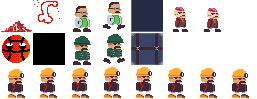
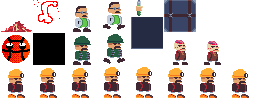
Added hand and test tube

Changed region(s): [[0.4981, 0.0, 0.8716, 0.6667], [0.7782, 0.3939, 0.8716, 0.6667]]

diff --git a/site/public/js/main.js b/site/public/js/main.js
@@ -1688,7 +1688,7 @@ eval("\r\nObject.defineProperty(exports, \"__esModule\", { value: true });\r\nex
 /***/ (function(module, exports, __webpack_require__) {
 
 "use strict";
-eval("\nObject.defineProperty(exports, \"__esModule\", { value: true });\nexports.Player = void 0;\nconst CanvasHelper_1 = __webpack_require__(/*! ../../util/CanvasHelper */ \"./site/build/client/util/CanvasHelper.js\");\nconst CharacterEntity_1 = __webpack_require__(/*! ./CharacterEntity */ \"./site/build/client/engine/entities/CharacterEntity.js\");\nclass Player extends CharacterEntity_1.CharacterEntity {\n    constructor(serviceLocator, x, y, animation, animation_width, animation_height) {\n        super(serviceLocator, x, y, animation, animation_width, animation_height);\n        // TO REMOVE: degbug zoom function\n        this.zoom = \"none\";\n        this.speed = 1;\n    }\n    update(serviceLocator) {\n        super.update(serviceLocator);\n        const camera = CanvasHelper_1.CanvasHelper.getCamera();\n        CanvasHelper_1.CanvasHelper.setCamera(this.x, this.y, camera.scale);\n        // TO REMOVE\n        if (this.zoom == \"in\") {\n            CanvasHelper_1.CanvasHelper.setCamera(this.x, this.y, camera.scale * 1.01);\n        }\n        else if (this.zoom == \"out\") {\n            CanvasHelper_1.CanvasHelper.setCamera(this.x, this.y, camera.scale * 0.99);\n        }\n    }\n    onAddedToWorld(serviceLocator) {\n    }\n    onRemovedFromWorld(serviceLocator) {\n    }\n}\nexports.Player = Player;\n//# sourceMappingURL=Player.js.map\n\n//# sourceURL=webpack:///./site/build/client/engine/entities/Player.js?");
+eval("\nObject.defineProperty(exports, \"__esModule\", { value: true });\nexports.Player = void 0;\nconst CanvasHelper_1 = __webpack_require__(/*! ../../util/CanvasHelper */ \"./site/build/client/util/CanvasHelper.js\");\nconst CharacterEntity_1 = __webpack_require__(/*! ./CharacterEntity */ \"./site/build/client/engine/entities/CharacterEntity.js\");\nclass Player extends CharacterEntity_1.CharacterEntity {\n    constructor(serviceLocator, x, y, animation, animation_width, animation_height) {\n        super(serviceLocator, x, y, animation, animation_width, animation_height, \"test_tube\");\n        // TO REMOVE: degbug zoom function\n        this.zoom = \"none\";\n        this.speed = 1;\n    }\n    update(serviceLocator) {\n        super.update(serviceLocator);\n        const camera = CanvasHelper_1.CanvasHelper.getCamera();\n        CanvasHelper_1.CanvasHelper.setCamera(this.x, this.y, camera.scale);\n        // TO REMOVE\n        if (this.zoom == \"in\") {\n            CanvasHelper_1.CanvasHelper.setCamera(this.x, this.y, camera.scale * 1.01);\n        }\n        else if (this.zoom == \"out\") {\n            CanvasHelper_1.CanvasHelper.setCamera(this.x, this.y, camera.scale * 0.99);\n        }\n    }\n    onAddedToWorld(serviceLocator) {\n    }\n    onRemovedFromWorld(serviceLocator) {\n    }\n}\nexports.Player = Player;\n//# sourceMappingURL=Player.js.map\n\n//# sourceURL=webpack:///./site/build/client/engine/entities/Player.js?");
 
 /***/ }),
 
@@ -1712,7 +1712,7 @@ eval("\nObject.defineProperty(exports, \"__esModule\", { value: true });\nexport
 /***/ (function(module, exports, __webpack_require__) {
 
 "use strict";
-eval("\nObject.defineProperty(exports, \"__esModule\", { value: true });\nexports.Zombie = void 0;\nconst CharacterEntity_1 = __webpack_require__(/*! ./CharacterEntity */ \"./site/build/client/engine/entities/CharacterEntity.js\");\nconst ZOMBIE_WIDTH = 30;\nconst ZOMBIE_HEIGHT = 30;\nconst ZOMBIE_SPEED = 0.1;\nclass Zombie extends CharacterEntity_1.CharacterEntity {\n    constructor(serviceLocator, x, y) {\n        super(serviceLocator, x, y, \"zombie\", ZOMBIE_WIDTH, ZOMBIE_HEIGHT);\n        this.walking_right = true;\n    }\n    update(serviceLocator) {\n        super.update(serviceLocator);\n        this.xVel += this.walking_right ? ZOMBIE_SPEED : -ZOMBIE_SPEED;\n    }\n    onAddedToWorld(serviceLocator) {\n        setInterval(() => this.walking_right = !this.walking_right, 2000);\n    }\n    onRemovedFromWorld(serviceLocator) {\n    }\n}\nexports.Zombie = Zombie;\n//# sourceMappingURL=ZombieEntity.js.map\n\n//# sourceURL=webpack:///./site/build/client/engine/entities/ZombieEntity.js?");
+eval("\nObject.defineProperty(exports, \"__esModule\", { value: true });\nexports.Zombie = void 0;\nconst CharacterEntity_1 = __webpack_require__(/*! ./CharacterEntity */ \"./site/build/client/engine/entities/CharacterEntity.js\");\nconst ZOMBIE_WIDTH = 30;\nconst ZOMBIE_HEIGHT = 30;\nconst ZOMBIE_SPEED = 0.1;\nclass Zombie extends CharacterEntity_1.CharacterEntity {\n    constructor(serviceLocator, x, y) {\n        super(serviceLocator, x, y, \"zombie\", ZOMBIE_WIDTH, ZOMBIE_HEIGHT, \"test_tube\");\n        this.walking_right = true;\n    }\n    update(serviceLocator) {\n        super.update(serviceLocator);\n        this.xVel += this.walking_right ? ZOMBIE_SPEED : -ZOMBIE_SPEED;\n    }\n    onAddedToWorld(serviceLocator) {\n        setInterval(() => {\n            this.walking_right = !this.walking_right;\n            this.setHand(this.walking_right ? 90 : -90);\n        }, 2000);\n    }\n    onRemovedFromWorld(serviceLocator) {\n    }\n}\nexports.Zombie = Zombie;\n//# sourceMappingURL=ZombieEntity.js.map\n\n//# sourceURL=webpack:///./site/build/client/engine/entities/ZombieEntity.js?");
 
 /***/ }),
 

diff --git a/site/src/client/engine/entities/CharacterEntity.ts b/site/src/client/engine/entities/CharacterEntity.ts
@@ -1,5 +1,6 @@
 import { clear } from "console";
-import { CHARACTER_ANIMATION_MULTIPLIER, CHARACTER_ANIMATION_SPEED_THRESHOLD, CHARACTER_HEALTH_HEIGHT, CHARACTER_HEALTH_SHOWN, CHARACTER_HEALTH_WIDTH } from "../../Config";
+import { config } from "process";
+import { CHARACTER_ANIMATION_MULTIPLIER, CHARACTER_ANIMATION_SPEED_THRESHOLD, CHARACTER_HAND_DISTANCE, CHARACTER_HAND_SIZE, CHARACTER_HEALTH_HEIGHT, CHARACTER_HEALTH_SHOWN, CHARACTER_HEALTH_WIDTH, CHARACTER_LOWER_DROP } from "../../Config";
 import { ServiceLocator } from "../../services/ServiceLocator";
 import { CanvasHelper } from "../../util/CanvasHelper";
 import { PhysicsEntity } from "../PhysicsEntity";
@@ -23,6 +24,10 @@ export class CharacterEntity extends PhysicsEntity {
     protected show_health = false;
     protected show_health_timeout: any = undefined;
 
+    protected hand_image = "";
+    protected hand_angle = 90;
+    protected hand_dis = CHARACTER_HAND_DISTANCE;
+
     public constructor(
         private serviceLocator: ServiceLocator, 
         x: number, 
@@ -30,11 +35,13 @@ export class CharacterEntity extends PhysicsEntity {
         animation: string,
         animation_width: number, 
         animation_height: number,
+        hand_image: string
         ) {
         super(serviceLocator, x, y);
         this.animation = animation;
         this.animation_width = animation_width;
         this.animation_height = animation_height
+        this.hand_image = hand_image;
     }
 
     public update(serviceLocator: ServiceLocator) {
@@ -43,6 +50,7 @@ export class CharacterEntity extends PhysicsEntity {
         this.updateAnimationFrame();
         this.drawMovingAnimation(serviceLocator);
         this.drawHpBar(serviceLocator);
+        this.drawHand(serviceLocator);
     }
 
     public onAddedToWorld(serviceLocator: ServiceLocator) {
@@ -100,6 +108,13 @@ export class CharacterEntity extends PhysicsEntity {
         );
     } 
 
+    private drawHand(serviceLocator: ServiceLocator) {
+        const ang = (this.hand_angle / 180) * Math.PI;
+        const x = Math.sin(ang) * this.hand_dis + this.x;
+        const y = -Math.cos(ang) * this.hand_dis + this.y + CHARACTER_LOWER_DROP;
+        CanvasHelper.drawSprite(serviceLocator, this.hand_image, x, y, CHARACTER_HAND_SIZE, CHARACTER_HAND_SIZE);
+    }
+
     public onDamage(damage: number) {
         if (this.hp == 0) return;
         
@@ -118,6 +133,11 @@ export class CharacterEntity extends PhysicsEntity {
     public onDeath() {
         this.serviceLocator.getWorld().removeEntity(this);
         this.serviceLocator.getWorld().addEntity(new DeadBody(this.x, this.y))
+    }
+
+    public setHand(angle: number, distance: number = CHARACTER_HAND_DISTANCE) {
+        this.hand_angle = angle;
+        this.hand_dis = Math.min(distance, CHARACTER_HAND_DISTANCE);
     }
 
     private updateAnimationFrame() {

diff --git a/site/src/client/services/input/DefaultControlScheme.ts b/site/src/client/services/input/DefaultControlScheme.ts
@@ -1,3 +1,4 @@
+import { CHARACTER_MOUSE_DISANCE_INFLUENCE } from "../../Config";
 import { Scientist } from "../../engine/entities/Scientist";
 import { Zombie } from "../../engine/entities/ZombieEntity";
 import { CanvasHelper } from "../../util/CanvasHelper";
@@ -49,9 +50,13 @@ export class DefaultControlScheme implements ControlScheme {
     public onKeyUp(key: string, keysDown: { [key: string]: boolean }) {}
 
     public onMouseMove = (event: MouseEvent) => {
-        var rect = (event.target as any).getBoundingClientRect();
-        
-    }
+        let rect = (event.target as any).getBoundingClientRect();
+        let diffX = (event.x - rect.x) - (rect.width / 2);
+        let diffY = (event.y - rect.y) - (rect.height / 2);
+        let angle = (Math.atan2(diffX, -diffY) / Math.PI) * 180;
+        let distance = Math.sqrt(diffX * diffX + diffY * diffY) * CHARACTER_MOUSE_DISANCE_INFLUENCE;
+        this.serviceLocator.getScriptingService().scientist.setHand(angle, distance);
+    }   
 
     public onMouseDown = (event: MouseEvent) => {
     }

diff --git a/site/src/client/engine/entities/ZombieEntity.ts b/site/src/client/engine/entities/ZombieEntity.ts
@@ -13,7 +13,7 @@ export class Zombie extends CharacterEntity {
     private walking_right = true;
     
     public constructor(serviceLocator: ServiceLocator, x: number, y: number) {
-        super(serviceLocator, x, y, "zombie", ZOMBIE_WIDTH, ZOMBIE_HEIGHT);
+        super(serviceLocator, x, y, "zombie", ZOMBIE_WIDTH, ZOMBIE_HEIGHT, "test_tube");
     }
 
     public update(serviceLocator: ServiceLocator) {
@@ -23,7 +23,11 @@ export class Zombie extends CharacterEntity {
     }
 
     public onAddedToWorld(serviceLocator: ServiceLocator) {
-        setInterval(() => this.walking_right = !this.walking_right, 2000);
+        setInterval(() => {
+            this.walking_right = !this.walking_right;
+            this.setHand(this.walking_right ? 90 : -90)
+        }, 2000);
+
     }
     public onRemovedFromWorld(serviceLocator: ServiceLocator) {
     }

diff --git a/site/src/client/engine/entities/Player.ts b/site/src/client/engine/entities/Player.ts
@@ -18,7 +18,7 @@ export class Player extends CharacterEntity {
         animation: string,
         animation_width: number, 
         animation_height: number) {
-        super(serviceLocator, x, y, animation, animation_width, animation_height);
+        super(serviceLocator, x, y, animation, animation_width, animation_height, "test_tube");
         this.speed = 1;
     }
 

diff --git a/site/src/client/Config.ts b/site/src/client/Config.ts
@@ -40,3 +40,8 @@ export const CHARACTER_HEALTH_WIDTH = 20;
 export const CHARACTER_HEALTH_HEIGHT = 2;
 export const CHARACTER_HEALTH_SHOWN = 2000;
 
+export const CHARACTER_HAND_SIZE = 10;
+export const CHARACTER_HAND_DISTANCE = 10;
+export const CHARACTER_LOWER_DROP = 4;
+export const CHARACTER_MOUSE_DISANCE_INFLUENCE = 0.2;
+
